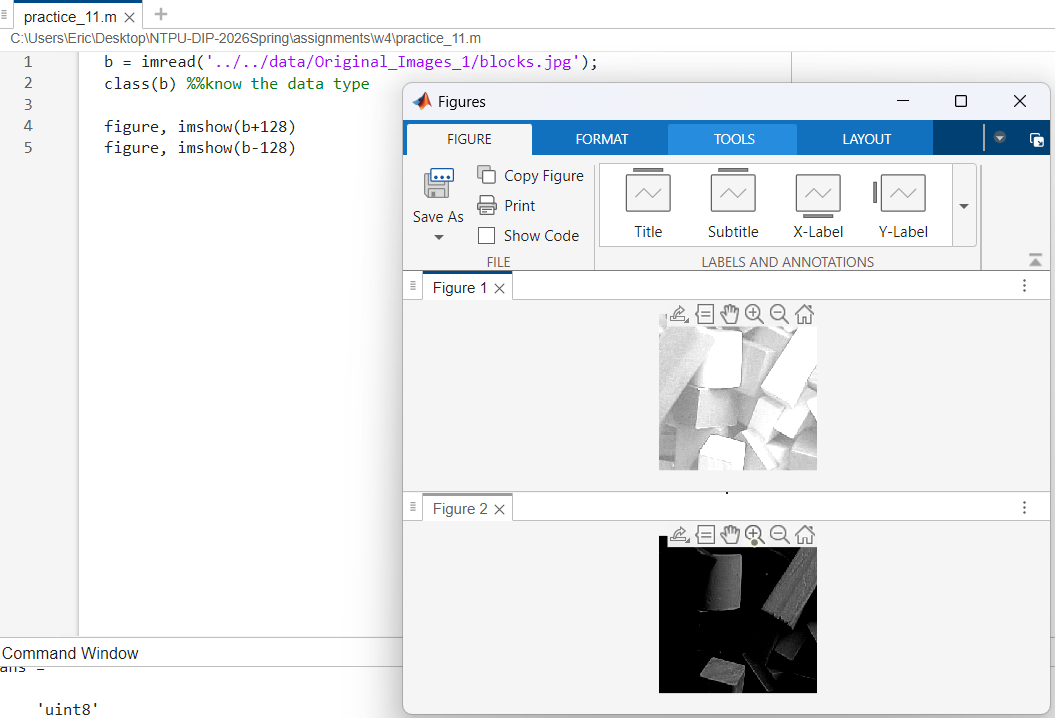
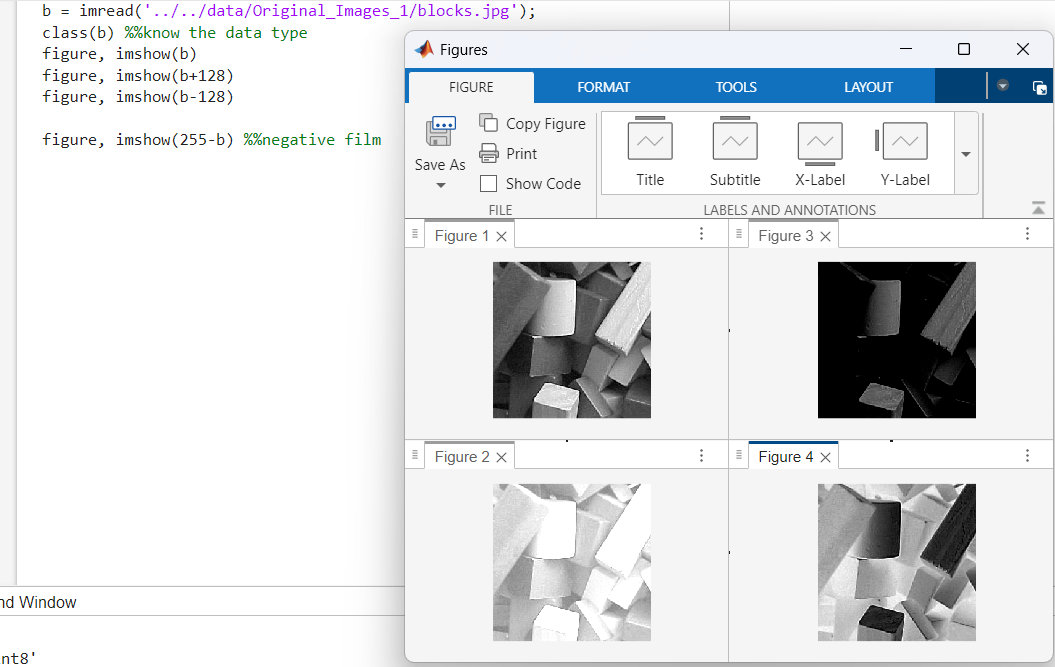
w4

diff --git a/assignments/w4/practice_11.m b/assignments/w4/practice_11.m
@@ -1,5 +1,7 @@
 b = imread('../../data/Original_Images_1/blocks.jpg');
 class(b) %%know the data type
-
+figure, imshow(b)
 figure, imshow(b+128)
 figure, imshow(b-128)
+
+figure, imshow(255-b) %%negative film

diff --git a/assignments/w4/practice_12.m b/assignments/w4/practice_12.m
@@ -1,0 +1,1 @@
+c = imread('../../data/Original_Images_1/chickens.png')
